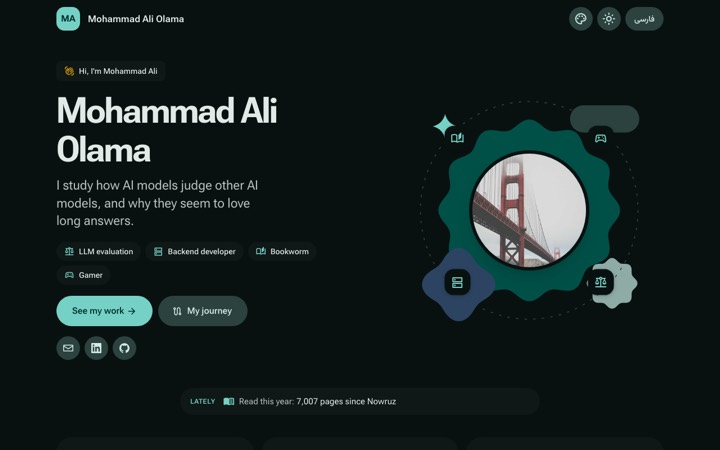
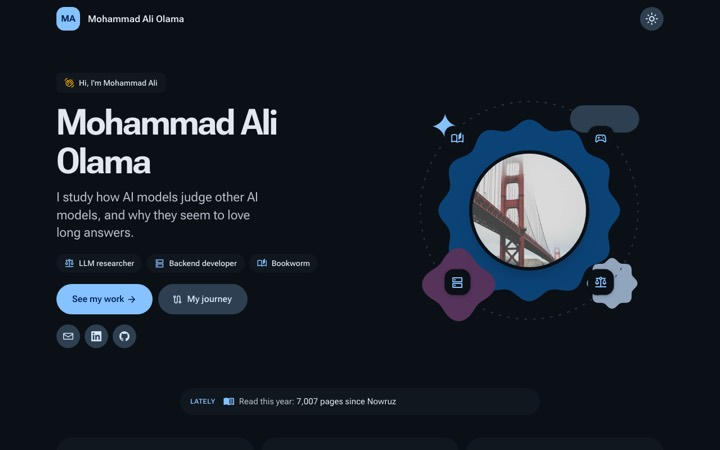
English-only, blue theme, no colour picker; illustrated Work page with live GitHub count; empty Blog; tag and About tweaks

diff --git a/index.html b/index.html
@@ -182,14 +182,14 @@
       </div>`;
 
     Site.init({
-      id: 'final', theme: { h: 185, c: 0.1 }, icons: ['home_pin', 'join_inner', 'flag', 'chevron_right', 'north_east'],
+      id: 'final', lang: 'en', lockTheme: true, theme: { h: 252, c: 0.13 }, icons: ['home_pin', 'join_inner', 'flag', 'chevron_right', 'north_east'],
 
       shell: (c, x) => `
         <header class="topbar">
           <a class="mark" href="#/">${x.esc(c.initials)}</a>
           <span class="title-m who">${x.esc(c.name)}</span>
           <span class="grow"></span>
-          ${x.paletteBtn('icon-btn tonal ripple')}${x.modeBtn('icon-btn tonal ripple')}${x.langBtn('btn tonal ripple lang-btn')}
+          ${x.modeBtn('icon-btn tonal ripple')}
         </header>
         <main id="view"></main>
         <footer class="foot">
@@ -216,6 +216,7 @@
       after(page, c) {
         document.getElementById('toolbar')?.classList.remove('hidden');
         if (page === 'home') ticker();
+        if (page === 'work') fetch('https://api.github.com/users/maolama').then((r) => r.json()).then((d) => { const el = document.getElementById('repo-count'); if (el && d.public_repos) el.textContent = d.public_repos; }).catch(() => {});
         if (page === 'journey') {
           document.getElementById('road')._d = periods(c);
           requestAnimationFrame(layoutRoad);
@@ -262,6 +263,69 @@
           </section>`;
         },
 
+        work: (c, x) => {
+          const e = x.esc, u = c.ui;
+          // Small illustration per research item (index-matched to content.research).
+          const arts = [
+            // Thesis: a judge's scale tipping towards the long answer
+            `<svg viewBox="0 0 300 150" aria-hidden="true">
+              <line class="a-line" x1="150" y1="22" x2="150" y2="128"/><rect class="a-soft" x="118" y="126" width="64" height="8" rx="4"/>
+              <g class="tilt"><line class="a-beam" x1="62" y1="44" x2="238" y2="44"/>
+                <line class="a-line" x1="72" y1="44" x2="72" y2="70"/><line class="a-line" x1="228" y1="44" x2="228" y2="70"/>
+                <g transform="translate(40 72)"><rect class="a-acc" width="64" height="7" rx="3.5"/><rect class="a-acc" y="11" width="56" height="7" rx="3.5"/><rect class="a-acc" y="22" width="64" height="7" rx="3.5"/><rect class="a-acc" y="33" width="48" height="7" rx="3.5"/><rect class="a-acc" y="44" width="60" height="7" rx="3.5"/></g>
+                <g transform="translate(200 72)"><rect class="a-alt" width="56" height="7" rx="3.5"/></g></g>
+              <circle class="a-acc" cx="150" cy="22" r="7"/></svg>`,
+            // Reflect or Shift: simulated users drifting between recommenders
+            `<svg viewBox="0 0 300 150" aria-hidden="true">
+              ${[0, 1, 2, 3].map((i) => `<rect class="a-soft" x="${30 + i * 66}" y="20" width="44" height="30" rx="9"/><text class="a-txt" x="${52 + i * 66}" y="40">${['RND', 'SVD', 'LLM', 'LLM+'][i]}</text>`).join('')}
+              ${Array.from({ length: 14 }, (_, i) => { const xx = 30 + (i % 7) * 40, yy = 92 + Math.floor(i / 7) * 30; return `<path class="a-link" d="M${xx} ${yy} Q ${xx} 70 ${52 + (i % 4) * 66} 52"/><circle class="${i % 3 ? 'a-acc' : 'a-alt'} drift" style="--d:${i * 0.3}s" cx="${xx}" cy="${yy}" r="7"/>`; }).join('')}</svg>`,
+            // Verbosity bias: short vs. padded answers, the judge prefers the tall ones
+            `<svg viewBox="0 0 300 150" aria-hidden="true">
+              <line class="a-line" x1="24" y1="130" x2="276" y2="130"/>
+              ${[[40, 70], [34, 82], [46, 74], [30, 88], [38, 78]].map(([a, b], i) => `<rect class="a-soft grow" style="--d:${i * 0.1}s" x="${36 + i * 48}" y="${130 - a}" width="16" height="${a}" rx="4"/><rect class="a-acc grow" style="--d:${i * 0.1 + 0.05}s" x="${54 + i * 48}" y="${130 - b}" width="16" height="${b}" rx="4"/>`).join('')}
+              <text class="a-txt big" x="262" y="34">فا</text></svg>`,
+          ];
+          const tones = [0, 60, 140, 220, 300];
+          const projects = c.projects.map((p, i) => `
+            <a class="repo k-${p.kind || 'project'}" data-kind="${p.kind || 'project'}" href="${p.url}" target="_blank" rel="noopener" data-reveal style="--i:${i % 6};--o:${tones[i % 5]}">
+              <span class="repo-art"><span class="ms">${p.icon}</span></span>
+              <span class="repo-body">
+                <span class="title-m">${e(p.title)}</span>
+                <span class="body-s muted">${e(p.desc)}</span>
+                <span class="repo-foot"><span class="tags">${p.tags.map((t) => `<span class="tag">${e(t)}</span>`).join('')}</span>${x.brand('github', 'brand gh')}</span>
+              </span>
+            </a>`).join('');
+          return `
+          ${x.head('work')}
+          <h2 class="title-l block-title" data-reveal>${e(u.research)}</h2>
+          <div class="papers">${c.research.map((r, i) => {
+            const [o, cl] = r.url ? [`<a class="paper ripple" href="${r.url}" target="_blank" rel="noopener" data-reveal style="--i:${i}">`, '</a>'] : [`<article class="paper" data-reveal style="--i:${i}">`, '</article>'];
+            return `${o}<div class="paper-art">${arts[i] || ''}</div>
+              <div class="paper-body"><div class="rc-top"><span class="status label-m">${e(r.status)}</span><span class="tag">${e(r.tag)}</span></div>
+              <h3 class="title-l">${e(r.title)}</h3><p class="body-m muted">${e(r.desc)}</p>
+              ${r.url ? `<span class="label-l code-link">${x.brand('github', 'brand')}${e(u.code)} <span class="ms flip">arrow_forward</span></span>` : ''}</div>${cl}`;
+          }).join('')}</div>
+
+          <div class="proj-head" data-reveal>
+            <h2 class="title-l">${e(u.projects)}</h2>
+            <div class="chips">${['all', 'project', 'fun'].map((k) => `<button class="chip filter ripple ${k === 'all' ? 'selected' : ''}" data-filter="${k}"><span class="ms chip-check">check</span>${e({ all: u.all, project: 'ML & LLMs', fun: u.fun }[k])}</button>`).join('')}</div>
+          </div>
+          <div class="repos">${projects}</div>
+
+          <a class="gh-strip ripple" href="${SITE.github}" target="_blank" rel="noopener" data-reveal>
+            ${x.brand('github', 'brand gh-big')}
+            <span class="gh-text"><span class="headline-s"><span id="repo-count">40+</span> public repositories</span><span class="body-m muted">From Tetris in my first year to LLM alignment today. github.com/maolama</span></span>
+            <span class="ms flip">arrow_forward</span>
+          </a>`;
+        },
+
+        blog: (c, x) => `
+          ${x.head('blog')}
+          <div class="empty" data-reveal>
+            <svg viewBox="0 0 200 140" aria-hidden="true"><rect class="e-page" x="52" y="18" width="96" height="112" rx="10"/><line class="e-line" x1="68" y1="44" x2="132" y2="44"/><line class="e-line" x1="68" y1="62" x2="124" y2="62"/><line class="e-line" x1="68" y1="80" x2="116" y2="80"/><path class="e-pen" d="M150 92 l20 -20 l10 10 l-20 20 l-14 4 z"/></svg>
+            <p class="body-l muted">No posts yet.</p>
+          </div>`,
+
         about: (c, x) => `
           ${x.head('about')}
           <div class="about-layout">
@@ -276,10 +340,7 @@
           </div>
           <section class="block"><h2 class="block-title title-l" data-reveal>${x.esc(c.ui.focus)}</h2>${x.focus()}</section>
           <section class="block"><h2 class="block-title title-l" data-reveal>${x.esc(c.ui.loves)}</h2>${x.reading()}<div data-reveal>${x.hobbies()}</div></section>
-          <section class="block"><h2 class="block-title title-l" data-reveal>${x.esc(c.ui.quotes)}</h2>${x.quotes()}</section>
-          <section class="block" data-reveal><h2 class="block-title title-l">${x.esc(c.ui.languages)}</h2>
-            <div class="chips">${c.languages.map((l) => `<span class="chip"><span class="ms">translate</span>${x.esc(l.k)} · ${x.esc(l.v)}</span>`).join('')}</div>
-          </section>`,
+          <section class="block"><h2 class="block-title title-l" data-reveal>${x.esc(c.ui.quotes)}</h2>${x.quotes()}</section>`,
 
         journey: (c, x) => {
           const e = x.esc, u = c.ui;

diff --git a/designs/final/style.css b/designs/final/style.css
@@ -140,3 +140,64 @@ html:lang(fa) .tick-lbl { text-transform: none; }
   .dot .ms { font-size: 19px; }
   .band-chip { display: none; }
 }
+
+/* ---------- Work: illustrated research ---------- */
+.papers { display: grid; grid-template-columns: repeat(auto-fit, minmax(280px, 1fr)); gap: 16px; margin-bottom: 48px; }
+.paper { display: flex; flex-direction: column; border-radius: 28px; overflow: hidden; background: var(--surface-container-low); transition: transform .3s var(--ease), box-shadow .3s var(--ease); }
+a.paper:hover { transform: translateY(-4px); box-shadow: var(--elev-2); }
+.paper-art { height: 160px; display: grid; place-items: center; padding: 12px; background: radial-gradient(90% 90% at 80% 0%, var(--primary-container), transparent 70%), var(--surface-container); }
+.paper-art svg { width: 100%; height: 100%; overflow: visible; }
+.paper-body { padding: 20px 22px 22px; display: flex; flex-direction: column; gap: 6px; flex: 1; }
+.paper-body h3 { margin-top: 4px; }
+.paper-body p { margin: 0; flex: 1; }
+.code-link { display: inline-flex; align-items: center; gap: 6px; margin-top: 10px; color: var(--primary); }
+.code-link .brand { width: 16px; height: 16px; }
+.code-link .ms { font-size: 18px; transition: transform .3s var(--ease); }
+a.paper:hover .code-link .ms { transform: translateX(4px); }
+.a-line { stroke: var(--outline); stroke-width: 3; stroke-linecap: round; }
+.a-beam { stroke: var(--on-surface); stroke-width: 5; stroke-linecap: round; }
+.a-acc { fill: var(--primary); }
+.a-alt { fill: var(--tertiary); }
+.a-soft { fill: var(--secondary-container); }
+.a-link { fill: none; stroke: var(--outline-variant); stroke-width: 1.5; }
+.a-txt { font: 600 10px var(--font-body); fill: var(--on-secondary-container); text-anchor: middle; }
+.a-txt.big { font: 800 22px "Vazirmatn", sans-serif; fill: var(--primary); }
+.tilt { transform-origin: 150px 44px; animation: tilt 4s ease-in-out infinite alternate; }
+@keyframes tilt { from { transform: rotate(-3deg); } to { transform: rotate(-12deg); } }
+.drift { animation: drift 3s ease-in-out infinite alternate; animation-delay: var(--d); }
+@keyframes drift { to { transform: translateY(-8px); } }
+.grow { transform-box: fill-box; transform-origin: bottom; animation: growbar 1.2s var(--ease-decel) both; animation-delay: var(--d); }
+@keyframes growbar { from { transform: scaleY(0); } }
+
+/* ---------- Work: projects as repo cards ---------- */
+.proj-head { display: flex; align-items: center; justify-content: space-between; flex-wrap: wrap; gap: 12px; margin-bottom: 16px; }
+.repos { display: grid; grid-template-columns: repeat(auto-fill, minmax(260px, 1fr)); gap: 14px; }
+.repo { display: flex; flex-direction: column; border-radius: 24px; overflow: hidden; background: var(--surface-container-low); transition: transform .3s var(--ease), box-shadow .3s var(--ease); }
+.repo:hover { transform: translateY(-4px); box-shadow: var(--elev-2); }
+.repo-art { position: relative; height: 96px; display: grid; place-items: center; overflow: hidden; color: #fff; background: linear-gradient(135deg, oklch(.5 .13 calc(var(--h) + var(--o))), oklch(.68 .12 calc(var(--h) + var(--o) + 40))); }
+.repo-art::before, .repo-art::after { content: ""; position: absolute; border-radius: 50%; background: rgb(255 255 255 / .12); }
+.repo-art::before { width: 140px; height: 140px; top: -60px; inset-inline-end: -40px; }
+.repo-art::after { width: 70px; height: 70px; bottom: -30px; inset-inline-start: 20px; }
+.repo-art .ms { position: relative; z-index: 1; font-size: 46px; transition: transform .5s var(--ease-spring); font-variation-settings: "FILL" 1, "wght" 400, "GRAD" 0, "opsz" 48; }
+.repo:hover .repo-art .ms { transform: scale(1.15) rotate(-8deg); }
+.repo.k-fun .repo-art { background: repeating-linear-gradient(45deg, rgb(255 255 255 / .08) 0 10px, transparent 10px 20px), linear-gradient(135deg, oklch(.55 .17 calc(var(--o) + 20)), oklch(.72 .16 calc(var(--o) + 70))); }
+.repo-body { display: flex; flex-direction: column; gap: 6px; padding: 16px 18px 18px; flex: 1; }
+.repo-body .body-s { flex: 1; }
+.repo-foot { display: flex; align-items: center; justify-content: space-between; gap: 8px; margin-top: 8px; }
+.gh { width: 18px; height: 18px; color: var(--on-surface-variant); flex: none; }
+.gh-strip { display: flex; align-items: center; gap: 18px; margin-top: 32px; padding: 22px 26px; border-radius: 28px; background: var(--on-surface); color: var(--surface); }
+.gh-strip .muted { color: inherit; opacity: .7; }
+.gh-big { width: 40px; height: 40px; }
+.gh-text { flex: 1; display: flex; flex-direction: column; }
+.gh-strip > .ms { transition: transform .3s var(--ease); }
+.gh-strip:hover > .ms { transform: translateX(6px); }
+
+/* ---------- Blog empty state ---------- */
+.empty { display: grid; justify-items: center; gap: 6px; padding: 48px 16px; border-radius: 28px; background: var(--surface-container-low); text-align: center; }
+.empty svg { width: 180px; }
+.e-page { fill: var(--surface); stroke: var(--outline-variant); stroke-width: 2; }
+.e-line { stroke: var(--outline-variant); stroke-width: 6; stroke-linecap: round; }
+.e-pen { fill: var(--primary); transform-origin: 160px 100px; animation: write 2.4s ease-in-out infinite; }
+@keyframes write { 50% { transform: translate(-8px, 4px) rotate(-6deg); } }
+
+@media (max-width: 560px) { .gh-strip { padding: 18px; gap: 12px; } .gh-big { width: 30px; height: 30px; } }

diff --git a/assets/js/content.js b/assets/js/content.js
@@ -63,10 +63,9 @@ window.SITE = {
     roles: ['an LLM researcher', 'a backend developer', 'a data scientist', 'a bookworm', 'a gamer'],
     keywords: ['LLM evaluation', 'Data science', 'Books', 'Backend', 'Films', 'Games', 'Travel'],
     tags: [
-      { icon: 'balance', label: 'LLM evaluation' },
+      { icon: 'balance', label: 'LLM researcher' },
       { icon: 'dns', label: 'Backend developer' },
       { icon: 'auto_stories', label: 'Bookworm' },
-      { icon: 'sports_esports', label: 'Gamer' },
     ],
 
     now: [
@@ -164,7 +163,7 @@ window.SITE = {
         about: 'The person behind the papers and the pull requests.',
         work: 'Research I am doing, and things I have built (some just for fun).',
         journey: 'Where I have studied and worked. Scroll to travel the road.',
-        blog: 'Notes and essays. Coming soon.',
+        blog: 'Notes and essays.',
         contact: 'Say hello. I usually reply within a few days.',
       },
       focus: 'What I do', now: 'Lately', loves: 'Things I love', languages: 'Languages',

diff --git a/assets/js/site.js b/assets/js/site.js
@@ -250,9 +250,11 @@
     const base = document.body.dataset.base || '';
     const q = new URLSearchParams(location.search);
     let lang = LANGS.includes(q.get('lang')) ? q.get('lang') : (LANGS.includes(store.get('lang')) ? store.get('lang') : 'en');
+    if (d.lang) lang = d.lang; // design pins a single language
     try { theme = JSON.parse(store.get(`theme:${d.id}`)) || d.theme; } catch (e) { theme = d.theme; }
     mode = q.get('mode') || store.get('mode') || (matchMedia('(prefers-color-scheme: dark)').matches ? 'dark' : 'light');
     if (q.get('h')) theme = { h: +q.get('h'), c: +(q.get('c') || 0.12) };
+    if (d.lockTheme) theme = d.theme; // design pins its colour
     if (q.get('static')) root.classList.add('static'); // used for gallery screenshots
     if (q.has('mode') || q.has('h')) {
       // one-off overrides (from the gallery): apply once, then drop them from the address
